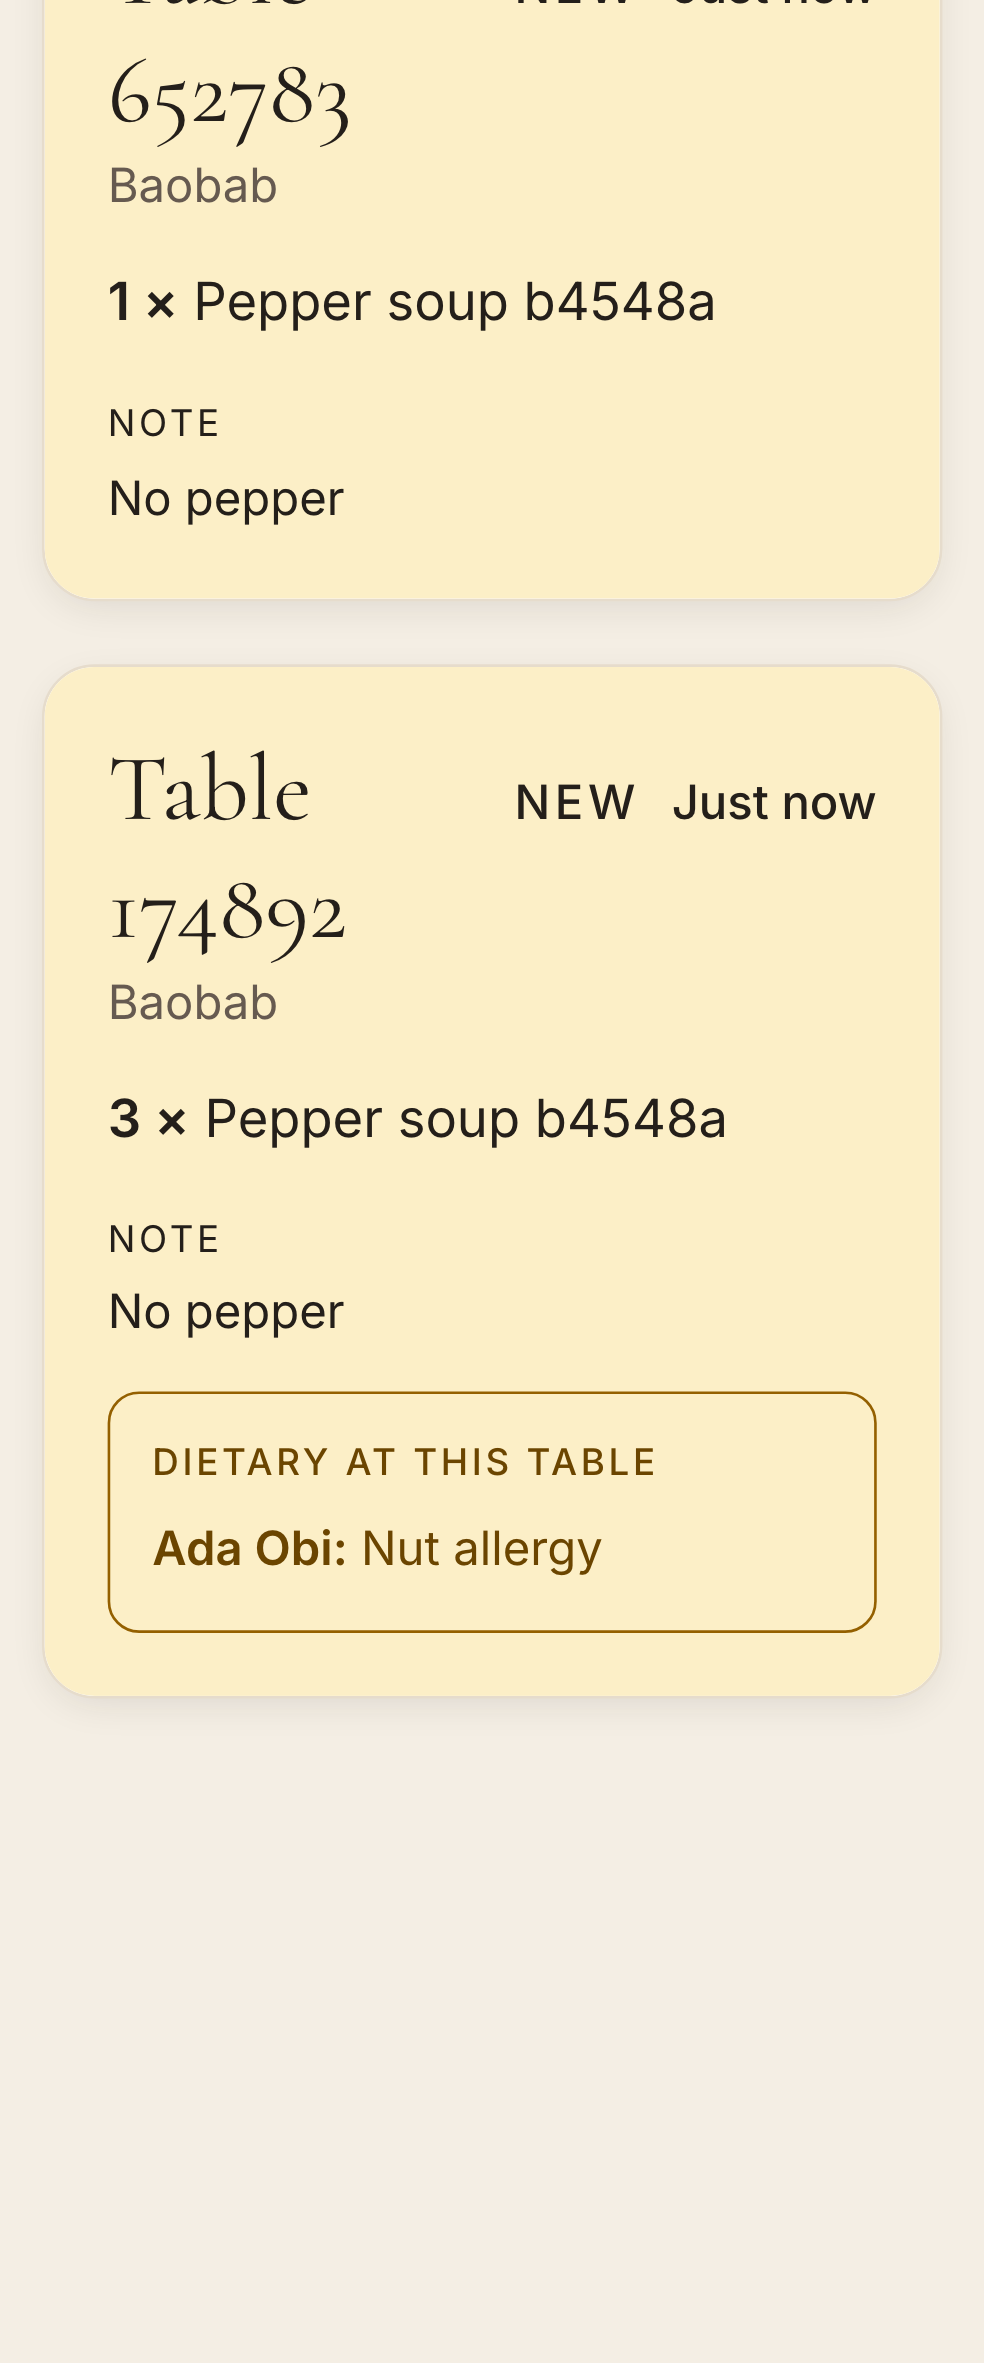
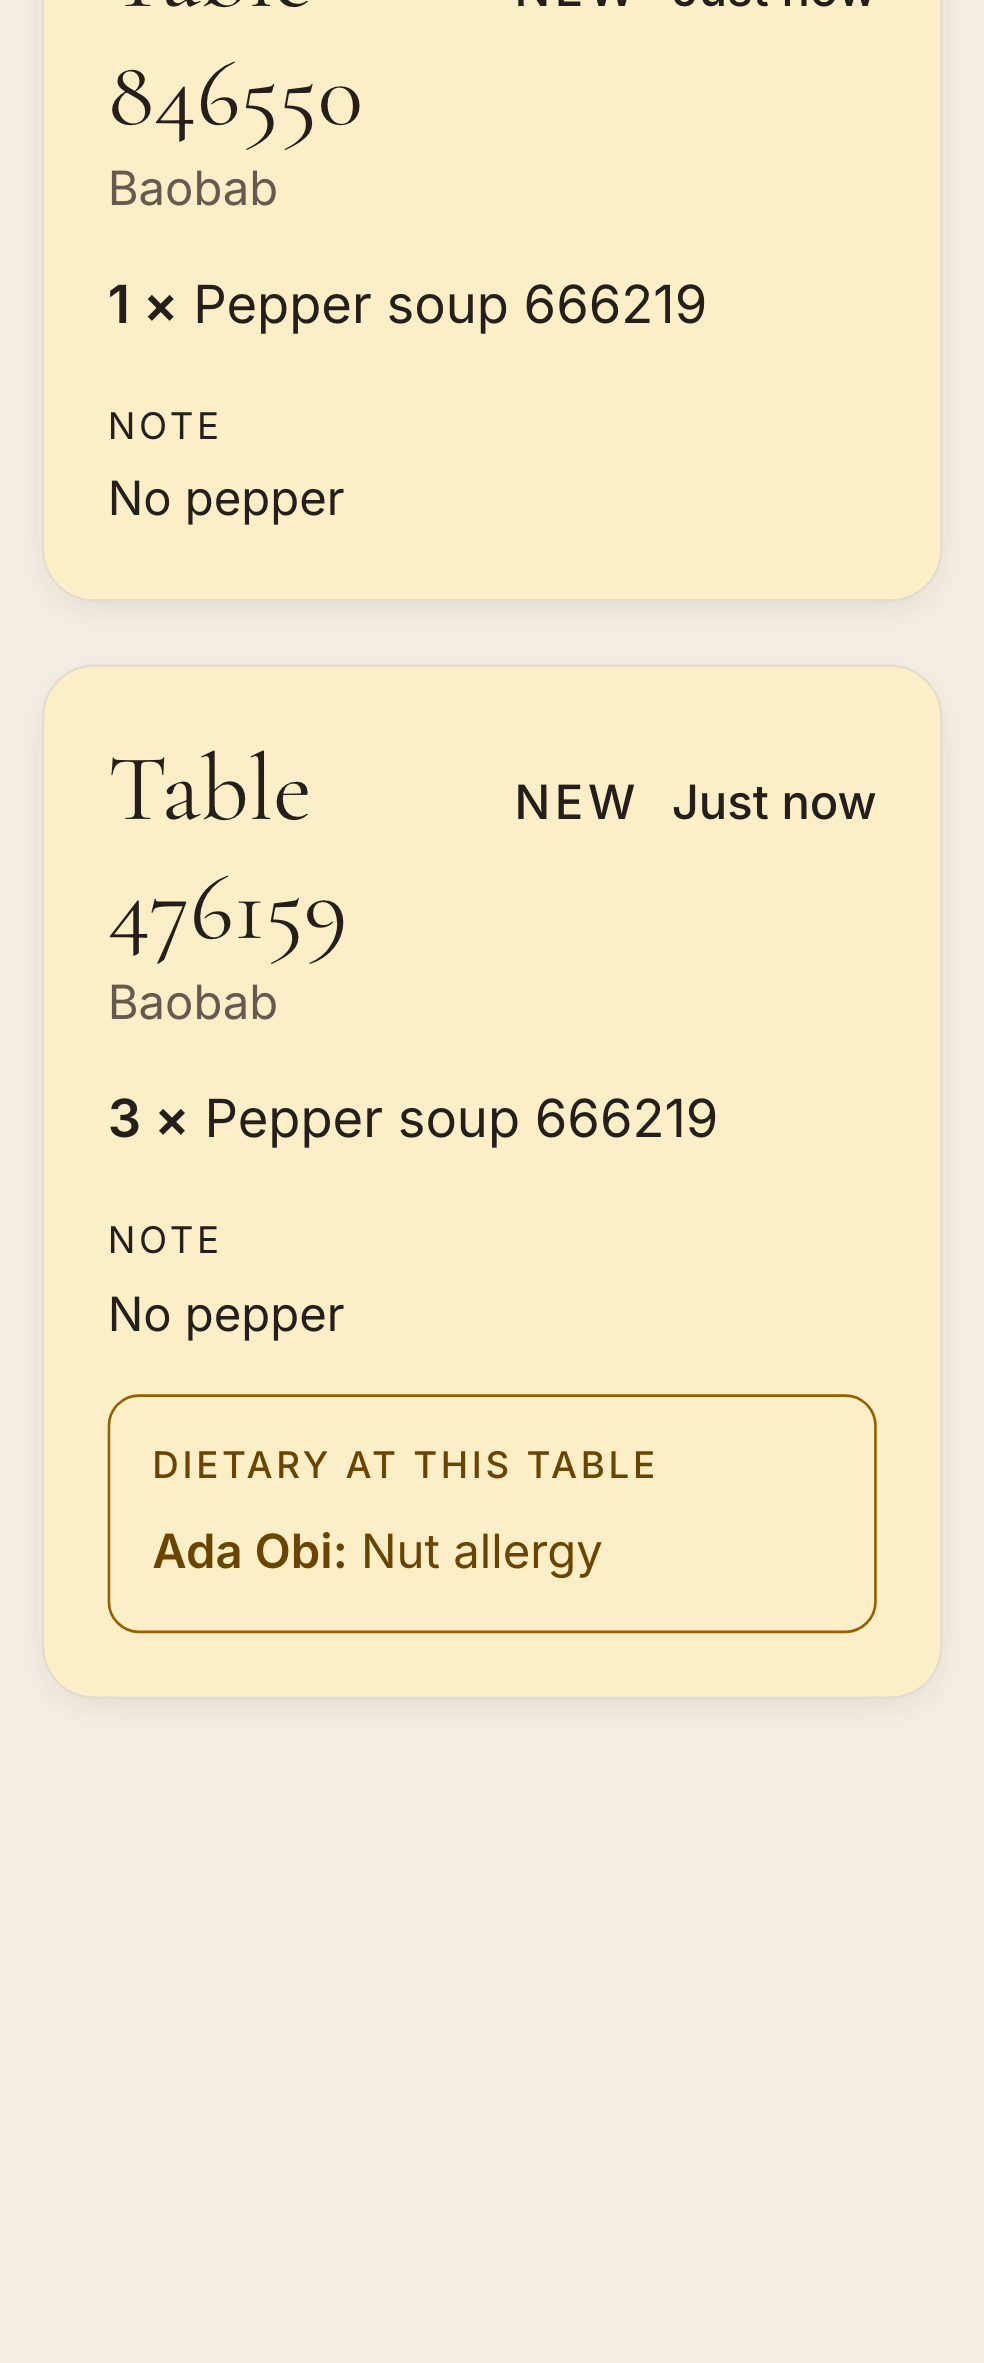
TICKET-076: keep the signed-in line and device name on the kitchen board

diff --git a/src/modules/ordering/components/kitchen-station.tsx b/src/modules/ordering/components/kitchen-station.tsx
@@ -3,7 +3,7 @@ import { connection } from "next/server";
 import { StaffEntry } from "@/modules/shared/components/staff-entry";
 import { createLogger } from "@/modules/shared/lib/logger";
 import { db } from "@/modules/shared/server/db/client";
-import { currentStaff } from "@/modules/shared/server/staff-cookies";
+import { currentStaffDevice } from "@/modules/shared/server/staff-cookies";
 import { staffSignOutAction } from "@/modules/shared/server/staff-actions";
 import { Button } from "@/modules/shared/components/ui/button";
 import type { KitchenBoard as Board } from "../lib/station-board";
@@ -15,8 +15,11 @@ const log = createLogger({ module: "kitchen-board" });
 async function KitchenStationContent() {
   await connection();
   let signedIn = false;
+  let deviceName: string | null = null;
   try {
-    signedIn = (await currentStaff("kitchen")) !== null;
+    const current = await currentStaffDevice("kitchen");
+    signedIn = current !== null;
+    deviceName = current?.device.name ?? null;
   } catch {
     log.warn("staff session unavailable");
   }
@@ -38,6 +41,14 @@ async function KitchenStationContent() {
             Staff
           </p>
           <h1 className="font-display text-4xl leading-tight md:text-5xl">Kitchen board</h1>
+          <p className="mt-2 text-lg leading-relaxed" role="status">
+            You’re signed in.
+          </p>
+          {deviceName ? (
+            <p className="text-lg leading-relaxed">
+              This device is <span className="font-medium">{deviceName}</span>.
+            </p>
+          ) : null}
         </div>
         <form action={staffSignOutAction}>
           <Button type="submit" variant="ghost" size="lg">
